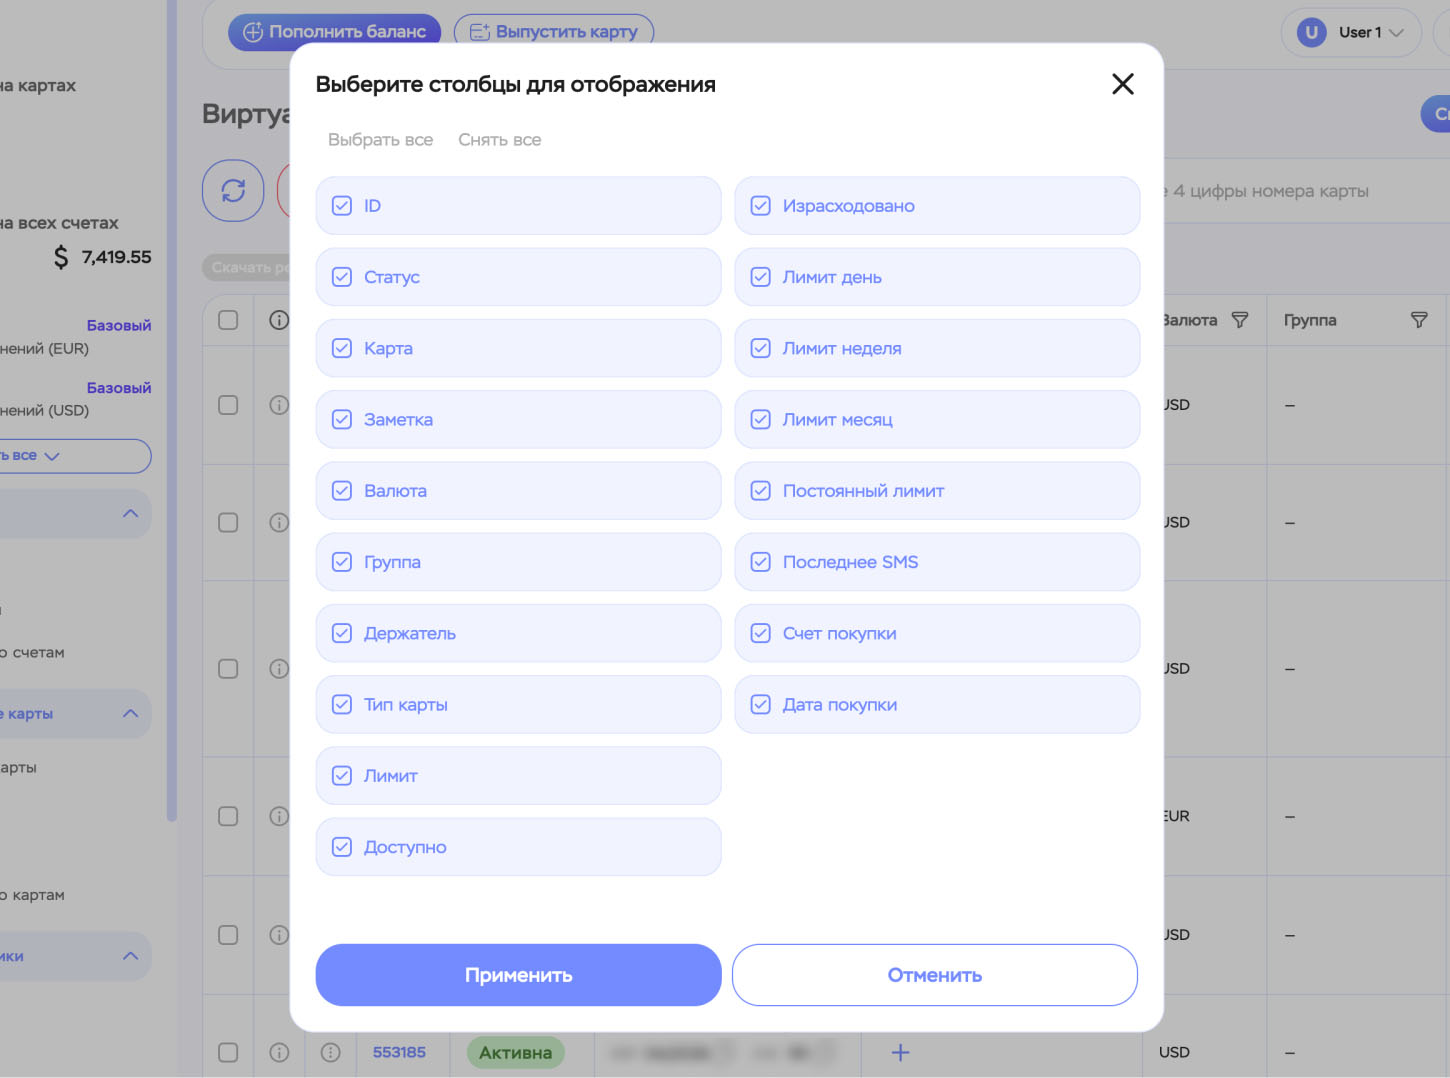
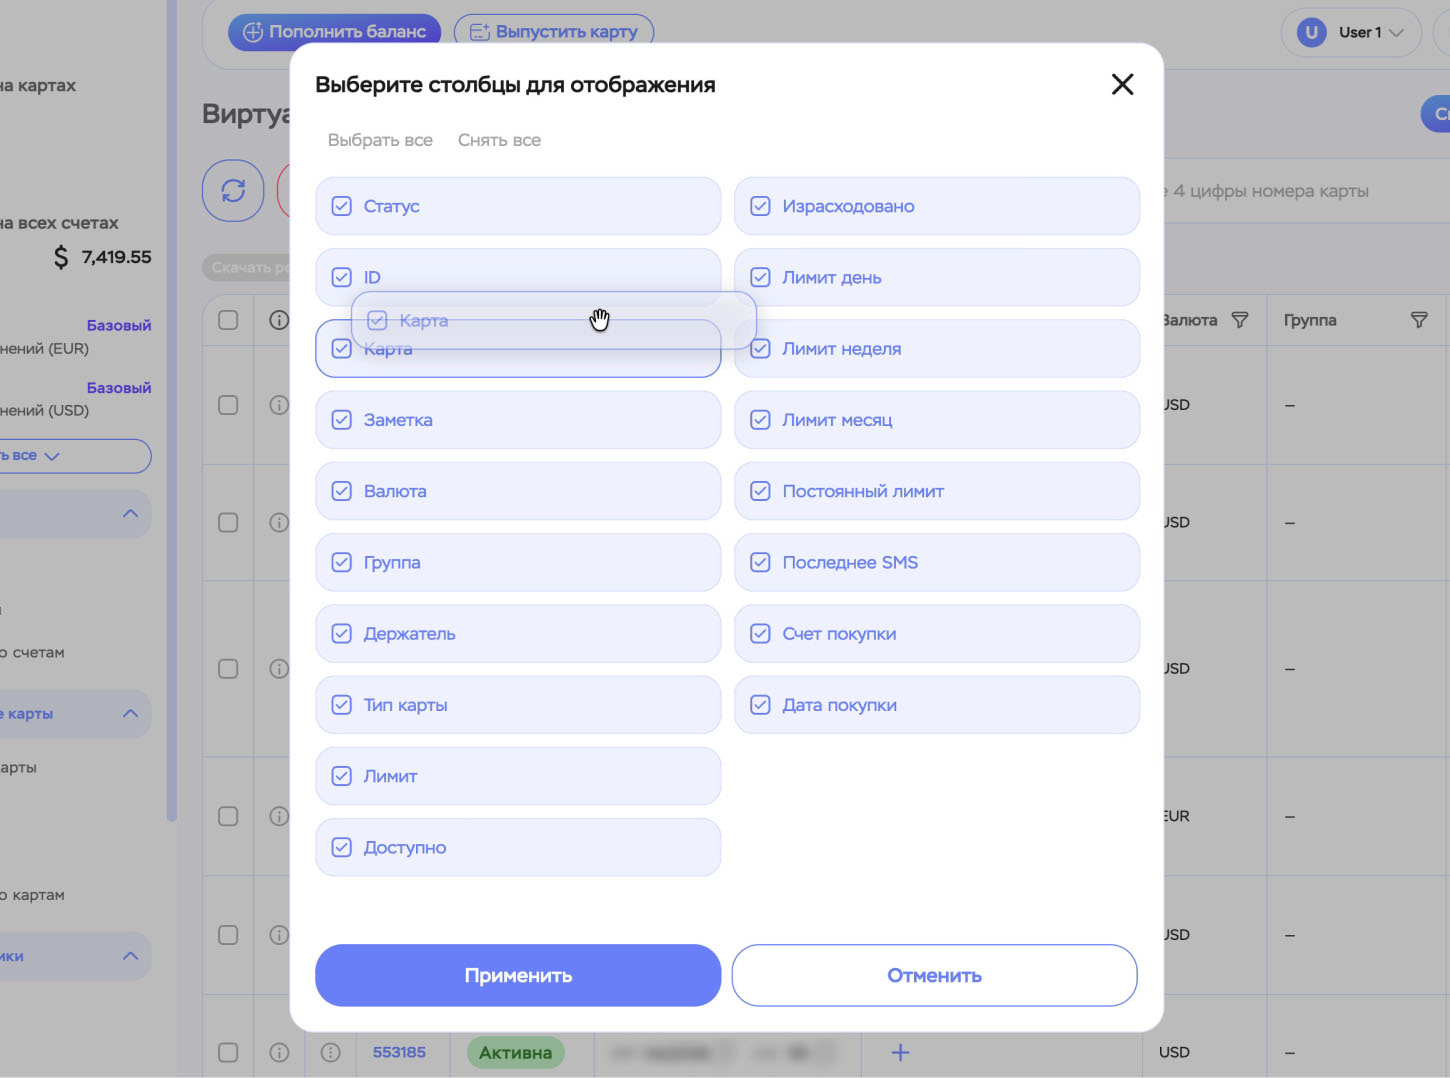
images fixes + small fixes

diff --git a/12-delegation.html b/12-delegation.html
@@ -91,8 +91,9 @@
                             stroke-linejoin="round" />
                     </svg>
                     <div>
-                    <a href="terminology.html#term-delegation">Делегирование</a> — предоставление
-                    доступа к счёту сотруднику или команде.</div>
+                        <a href="terminology.html#term-delegation">Делегирование</a> — предоставление
+                        доступа к счёту сотруднику или команде.
+                    </div>
                 </div>
 
                 <div class="entry" id="q-delegate-new">
@@ -168,10 +169,6 @@
                         <p>Да, лимитные карты можно передавать между счетами разных отделов (например, фарм и баинг).
                             Для этого делегируйте нужные счета соответствующим отделам — сотрудники смогут передавать
                             карты между ними.</p>
-                            <div class="img-row">
-                            <img class="img-narrow" src="imgs/12-делегирование-2-1.jpg" alt="Делегирование счета" />
-                            <img class="img-narrow" src="imgs/12-делегирование-2-2.jpg" alt="Делегирование счета" />
-                        </div>
                         <p><strong>Требования к счёту, на который передаётся карта:</strong></p>
                         <ul>
                             <li>Счёт должен быть лимитным.</li>
@@ -184,11 +181,15 @@
                         </ul>
                         <p>Для передачи: в <span class="seq">Мои карты</span> откройте контекстное меню карты (три
                             точки) и выберите <span class="seq-button">Передать карту на другой счёт</span>.</p>
+                            <div class="img-row">
+                            <img class="img-narrow" src="imgs/12-делегирование-2-1.jpg" alt="Делегирование счета" />
+                            <img class="img-narrow" src="imgs/12-делегирование-2-2.jpg" alt="Делегирование счета" />
+                        </div>
                     </div>
                 </div>
             </div>
 
-             <!-- Навигация по страницам -->
+            <!-- Навигация по страницам -->
             <div class="page-navigation" id="page-navigation">
                 <a href="#" class="page-nav-link page-nav-prev" id="nav-prev" style="display: none;">
                     <span class="nav-text"></span>
@@ -210,37 +211,37 @@
             <div class="support-item">
                 <strong>Поддержка</strong>
                 <a href="https://t.me/ecards_onboarding_bot" target="_blank"><svg width="16" height="16"
-                    viewBox="0 0 16 16" fill="none" xmlns="http://www.w3.org/2000/svg">
-                    <path fill-rule="evenodd" clip-rule="evenodd"
-                        d="M2.82494 7.23543C6.04616 5.68307 8.19414 4.65967 9.26889 4.16521C12.3375 2.75343 12.9751 2.50818 13.3907 2.50009C13.4822 2.49831 13.6865 2.52336 13.8189 2.64219C13.9307 2.74252 13.9615 2.87805 13.9762 2.97318C13.9909 3.06831 14.0092 3.285 13.9947 3.45433C13.8284 5.38695 13.1088 10.0769 12.7428 12.2415C12.5879 13.1574 12.2829 13.4645 11.9876 13.4945C11.346 13.5599 10.8587 13.0255 10.2372 12.5749C9.26468 11.8697 8.71527 11.4308 7.77127 10.7427C6.68032 9.94746 7.38754 9.5104 8.00927 8.79612C8.17198 8.60919 10.9992 5.76471 11.054 5.50668C11.0608 5.4744 11.0671 5.35411 11.0025 5.29059C10.9379 5.22707 10.8426 5.24879 10.7738 5.26606C10.6762 5.29055 9.1226 6.4264 6.11292 8.6736C5.67193 9.00854 5.2725 9.17174 4.91462 9.16319C4.52009 9.15376 3.76117 8.91644 3.19699 8.71359C2.505 8.46478 1.95502 8.33324 2.00291 7.91069C2.02785 7.6906 2.30186 7.46551 2.82494 7.23543Z"
-                        fill="#636363" />
+                        viewBox="0 0 16 16" fill="none" xmlns="http://www.w3.org/2000/svg">
+                        <path fill-rule="evenodd" clip-rule="evenodd"
+                            d="M2.82494 7.23543C6.04616 5.68307 8.19414 4.65967 9.26889 4.16521C12.3375 2.75343 12.9751 2.50818 13.3907 2.50009C13.4822 2.49831 13.6865 2.52336 13.8189 2.64219C13.9307 2.74252 13.9615 2.87805 13.9762 2.97318C13.9909 3.06831 14.0092 3.285 13.9947 3.45433C13.8284 5.38695 13.1088 10.0769 12.7428 12.2415C12.5879 13.1574 12.2829 13.4645 11.9876 13.4945C11.346 13.5599 10.8587 13.0255 10.2372 12.5749C9.26468 11.8697 8.71527 11.4308 7.77127 10.7427C6.68032 9.94746 7.38754 9.5104 8.00927 8.79612C8.17198 8.60919 10.9992 5.76471 11.054 5.50668C11.0608 5.4744 11.0671 5.35411 11.0025 5.29059C10.9379 5.22707 10.8426 5.24879 10.7738 5.26606C10.6762 5.29055 9.1226 6.4264 6.11292 8.6736C5.67193 9.00854 5.2725 9.17174 4.91462 9.16319C4.52009 9.15376 3.76117 8.91644 3.19699 8.71359C2.505 8.46478 1.95502 8.33324 2.00291 7.91069C2.02785 7.6906 2.30186 7.46551 2.82494 7.23543Z"
+                            fill="#636363" />
                     </svg>
                     @ecards_support</a>
                 <a href="https://t.me/ecards_support" target="_blank"><svg width="16" height="16" viewBox="0 0 16 16"
-                    fill="none" xmlns="http://www.w3.org/2000/svg">
-                    <path fill-rule="evenodd" clip-rule="evenodd"
-                        d="M2.82494 7.23543C6.04616 5.68307 8.19414 4.65967 9.26889 4.16521C12.3375 2.75343 12.9751 2.50818 13.3907 2.50009C13.4822 2.49831 13.6865 2.52336 13.8189 2.64219C13.9307 2.74252 13.9615 2.87805 13.9762 2.97318C13.9909 3.06831 14.0092 3.285 13.9947 3.45433C13.8284 5.38695 13.1088 10.0769 12.7428 12.2415C12.5879 13.1574 12.2829 13.4645 11.9876 13.4945C11.346 13.5599 10.8587 13.0255 10.2372 12.5749C9.26468 11.8697 8.71527 11.4308 7.77127 10.7427C6.68032 9.94746 7.38754 9.5104 8.00927 8.79612C8.17198 8.60919 10.9992 5.76471 11.054 5.50668C11.0608 5.4744 11.0671 5.35411 11.0025 5.29059C10.9379 5.22707 10.8426 5.24879 10.7738 5.26606C10.6762 5.29055 9.1226 6.4264 6.11292 8.6736C5.67193 9.00854 5.2725 9.17174 4.91462 9.16319C4.52009 9.15376 3.76117 8.91644 3.19699 8.71359C2.505 8.46478 1.95502 8.33324 2.00291 7.91069C2.02785 7.6906 2.30186 7.46551 2.82494 7.23543Z"
-                        fill="#636363" />
+                        fill="none" xmlns="http://www.w3.org/2000/svg">
+                        <path fill-rule="evenodd" clip-rule="evenodd"
+                            d="M2.82494 7.23543C6.04616 5.68307 8.19414 4.65967 9.26889 4.16521C12.3375 2.75343 12.9751 2.50818 13.3907 2.50009C13.4822 2.49831 13.6865 2.52336 13.8189 2.64219C13.9307 2.74252 13.9615 2.87805 13.9762 2.97318C13.9909 3.06831 14.0092 3.285 13.9947 3.45433C13.8284 5.38695 13.1088 10.0769 12.7428 12.2415C12.5879 13.1574 12.2829 13.4645 11.9876 13.4945C11.346 13.5599 10.8587 13.0255 10.2372 12.5749C9.26468 11.8697 8.71527 11.4308 7.77127 10.7427C6.68032 9.94746 7.38754 9.5104 8.00927 8.79612C8.17198 8.60919 10.9992 5.76471 11.054 5.50668C11.0608 5.4744 11.0671 5.35411 11.0025 5.29059C10.9379 5.22707 10.8426 5.24879 10.7738 5.26606C10.6762 5.29055 9.1226 6.4264 6.11292 8.6736C5.67193 9.00854 5.2725 9.17174 4.91462 9.16319C4.52009 9.15376 3.76117 8.91644 3.19699 8.71359C2.505 8.46478 1.95502 8.33324 2.00291 7.91069C2.02785 7.6906 2.30186 7.46551 2.82494 7.23543Z"
+                            fill="#636363" />
                     </svg>
                     @tochka_cab_support</a>
             </div>
             <div class="support-item">
                 <strong>Частые вопросы</strong>
                 <a href="https://t.me/ecards_onboarding_bot" target="_blank"><svg width="16" height="16"
-                    viewBox="0 0 16 16" fill="none" xmlns="http://www.w3.org/2000/svg">
-                    <path fill-rule="evenodd" clip-rule="evenodd"
-                        d="M2.82494 7.23543C6.04616 5.68307 8.19414 4.65967 9.26889 4.16521C12.3375 2.75343 12.9751 2.50818 13.3907 2.50009C13.4822 2.49831 13.6865 2.52336 13.8189 2.64219C13.9307 2.74252 13.9615 2.87805 13.9762 2.97318C13.9909 3.06831 14.0092 3.285 13.9947 3.45433C13.8284 5.38695 13.1088 10.0769 12.7428 12.2415C12.5879 13.1574 12.2829 13.4645 11.9876 13.4945C11.346 13.5599 10.8587 13.0255 10.2372 12.5749C9.26468 11.8697 8.71527 11.4308 7.77127 10.7427C6.68032 9.94746 7.38754 9.5104 8.00927 8.79612C8.17198 8.60919 10.9992 5.76471 11.054 5.50668C11.0608 5.4744 11.0671 5.35411 11.0025 5.29059C10.9379 5.22707 10.8426 5.24879 10.7738 5.26606C10.6762 5.29055 9.1226 6.4264 6.11292 8.6736C5.67193 9.00854 5.2725 9.17174 4.91462 9.16319C4.52009 9.15376 3.76117 8.91644 3.19699 8.71359C2.505 8.46478 1.95502 8.33324 2.00291 7.91069C2.02785 7.6906 2.30186 7.46551 2.82494 7.23543Z"
-                        fill="#636363" />
+                        viewBox="0 0 16 16" fill="none" xmlns="http://www.w3.org/2000/svg">
+                        <path fill-rule="evenodd" clip-rule="evenodd"
+                            d="M2.82494 7.23543C6.04616 5.68307 8.19414 4.65967 9.26889 4.16521C12.3375 2.75343 12.9751 2.50818 13.3907 2.50009C13.4822 2.49831 13.6865 2.52336 13.8189 2.64219C13.9307 2.74252 13.9615 2.87805 13.9762 2.97318C13.9909 3.06831 14.0092 3.285 13.9947 3.45433C13.8284 5.38695 13.1088 10.0769 12.7428 12.2415C12.5879 13.1574 12.2829 13.4645 11.9876 13.4945C11.346 13.5599 10.8587 13.0255 10.2372 12.5749C9.26468 11.8697 8.71527 11.4308 7.77127 10.7427C6.68032 9.94746 7.38754 9.5104 8.00927 8.79612C8.17198 8.60919 10.9992 5.76471 11.054 5.50668C11.0608 5.4744 11.0671 5.35411 11.0025 5.29059C10.9379 5.22707 10.8426 5.24879 10.7738 5.26606C10.6762 5.29055 9.1226 6.4264 6.11292 8.6736C5.67193 9.00854 5.2725 9.17174 4.91462 9.16319C4.52009 9.15376 3.76117 8.91644 3.19699 8.71359C2.505 8.46478 1.95502 8.33324 2.00291 7.91069C2.02785 7.6906 2.30186 7.46551 2.82494 7.23543Z"
+                            fill="#636363" />
                     </svg>
                     @ecards_onboarding_bot</a>
             </div>
             <div class="support-item">
                 <strong>Новостной канал</strong>
                 <a href="https://t.me/eCards_cab" target="_blank"><svg width="16" height="16" viewBox="0 0 16 16"
-                    fill="none" xmlns="http://www.w3.org/2000/svg">
-                    <path fill-rule="evenodd" clip-rule="evenodd"
-                        d="M2.82494 7.23543C6.04616 5.68307 8.19414 4.65967 9.26889 4.16521C12.3375 2.75343 12.9751 2.50818 13.3907 2.50009C13.4822 2.49831 13.6865 2.52336 13.8189 2.64219C13.9307 2.74252 13.9615 2.87805 13.9762 2.97318C13.9909 3.06831 14.0092 3.285 13.9947 3.45433C13.8284 5.38695 13.1088 10.0769 12.7428 12.2415C12.5879 13.1574 12.2829 13.4645 11.9876 13.4945C11.346 13.5599 10.8587 13.0255 10.2372 12.5749C9.26468 11.8697 8.71527 11.4308 7.77127 10.7427C6.68032 9.94746 7.38754 9.5104 8.00927 8.79612C8.17198 8.60919 10.9992 5.76471 11.054 5.50668C11.0608 5.4744 11.0671 5.35411 11.0025 5.29059C10.9379 5.22707 10.8426 5.24879 10.7738 5.26606C10.6762 5.29055 9.1226 6.4264 6.11292 8.6736C5.67193 9.00854 5.2725 9.17174 4.91462 9.16319C4.52009 9.15376 3.76117 8.91644 3.19699 8.71359C2.505 8.46478 1.95502 8.33324 2.00291 7.91069C2.02785 7.6906 2.30186 7.46551 2.82494 7.23543Z"
-                        fill="#636363" />
+                        fill="none" xmlns="http://www.w3.org/2000/svg">
+                        <path fill-rule="evenodd" clip-rule="evenodd"
+                            d="M2.82494 7.23543C6.04616 5.68307 8.19414 4.65967 9.26889 4.16521C12.3375 2.75343 12.9751 2.50818 13.3907 2.50009C13.4822 2.49831 13.6865 2.52336 13.8189 2.64219C13.9307 2.74252 13.9615 2.87805 13.9762 2.97318C13.9909 3.06831 14.0092 3.285 13.9947 3.45433C13.8284 5.38695 13.1088 10.0769 12.7428 12.2415C12.5879 13.1574 12.2829 13.4645 11.9876 13.4945C11.346 13.5599 10.8587 13.0255 10.2372 12.5749C9.26468 11.8697 8.71527 11.4308 7.77127 10.7427C6.68032 9.94746 7.38754 9.5104 8.00927 8.79612C8.17198 8.60919 10.9992 5.76471 11.054 5.50668C11.0608 5.4744 11.0671 5.35411 11.0025 5.29059C10.9379 5.22707 10.8426 5.24879 10.7738 5.26606C10.6762 5.29055 9.1226 6.4264 6.11292 8.6736C5.67193 9.00854 5.2725 9.17174 4.91462 9.16319C4.52009 9.15376 3.76117 8.91644 3.19699 8.71359C2.505 8.46478 1.95502 8.33324 2.00291 7.91069C2.02785 7.6906 2.30186 7.46551 2.82494 7.23543Z"
+                            fill="#636363" />
                     </svg>
                     @eCards_cab</a>
             </div>
@@ -255,7 +256,8 @@
 
     <!-- Кнопка Наверх -->
     <button id="scroll-top-btn" class="scroll-top-btn" aria-label="Наверх">
-        <svg width="24" height="24" viewBox="0 0 24 24" fill="none" stroke="currentColor" stroke-width="2.5" stroke-linecap="round" stroke-linejoin="round">
+        <svg width="24" height="24" viewBox="0 0 24 24" fill="none" stroke="currentColor" stroke-width="2.5"
+            stroke-linecap="round" stroke-linejoin="round">
             <polyline points="18 15 12 9 6 15"></polyline>
         </svg>
     </button>

diff --git a/css/styles.css b/css/styles.css
@@ -104,19 +104,6 @@ p:last-child {
     -webkit-box-decoration-break: slice;
 }
 
-.seq-test {
-    display: inline;
-    font-weight: 500;
-    background: #FFFFFF;
-    color: var(--violetw);
-    padding: 2px 8px;
-    border-radius: 100px;
-    border: 1px solid var(--border-color);
-    font-size: 0.95em;
-    box-decoration-break: slice;
-    -webkit-box-decoration-break: slice;
-}
-
 .seq-arrow {
     display: inline-block;
     width: 16px;
@@ -136,18 +123,6 @@ p:last-child {
     font-weight: 500;
     background-color: var(--surface-20);
     color: var(--dark);
-    padding: 2px 8px;
-    border-radius: 12px;
-    font-size: 0.95em;
-    box-decoration-break: slice;
-    -webkit-box-decoration-break: slice;
-}
-
-.seq-button-test {
-    display: inline;
-    font-weight: 500;
-    background-color: var(--surface-20);
-    color: var(--violet);
     padding: 2px 8px;
     border-radius: 12px;
     font-size: 0.95em;

diff --git a/02-tg-bot.html b/02-tg-bot.html
@@ -99,8 +99,8 @@
                             </svg></button>
                     </div>
                     <div class="entry-body">
-                        <p>Перейдите на главную страницу в раздел <span class="seq-test">Уведомления</span>
-                            и нажмите <span class="seq-button-test">Перейти</span> в блоке «Активация телеграм-бота». После активации
+                        <p>Перейдите на главную страницу в раздел <span class="seq">Уведомления</span>
+                            и нажмите <span class="seq-button">Перейти</span> в блоке «Активация телеграм-бота». После активации
                             уведомления об операциях, <a href="terminology.html#term-3ds">3DS SMS и коды
                                 авторизации</a>
                             будут приходить в Telegram.</p>